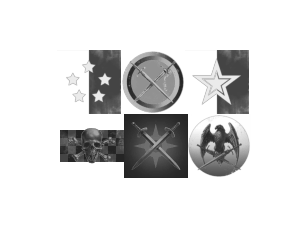
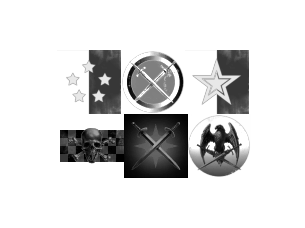
Background color darkend to pure black (#1728)

Changed region(s): [[0.177, 0.2149, 0.8262, 0.7982], [0.5311, 0.6754, 0.5607, 0.7061]]

diff --git a/frontend/app/src/styles/properties/_colors.scss b/frontend/app/src/styles/properties/_colors.scss
@@ -28,7 +28,7 @@
     --security-status-null:     #8f2f69;
 
     --foreground:               var(--fleet-yellow);
-    --background:               #121212;
+    --background:               black;
     --component-background:     rgb(25, 25, 25);
     --highlight:                white;
     --faded:                    rgba(255, 255, 255, 0.7);
